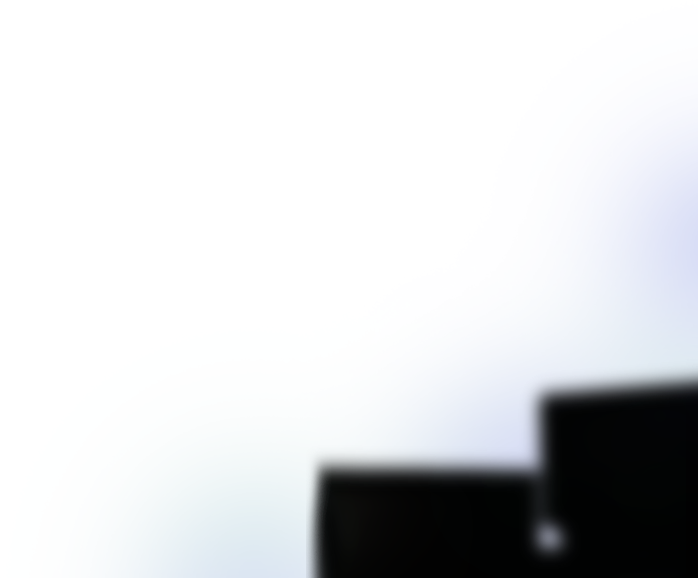
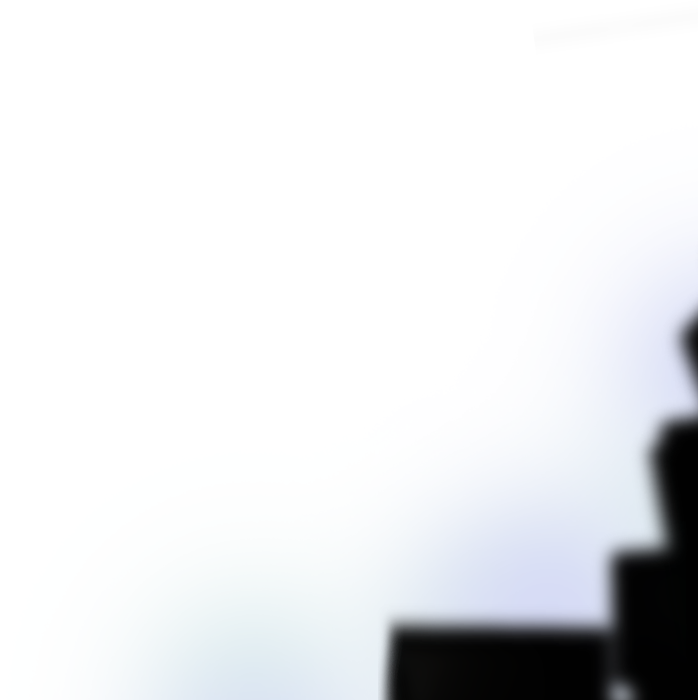
Update Boss 3 Bomb and Foreground

Changed region(s): [[0.4212, 0.436, 1.0, 1.0]]

diff --git a/Assets/Scripts/Player/PlayerDash.cs b/Assets/Scripts/Player/PlayerDash.cs
@@ -195,7 +195,7 @@ public class PlayerDash : RhythmObject
             }
             if (cos[i].tag.Equals("BossBomb"))
             {
-                Vector3 centerPos = GridManager.instance.GetPhaseInitialPosition() + new Vector2(GridManager.instance.boss.centerShootPosX * GridManager.instance.gridSize.x, GridManager.instance.boss.centerShootPosY * GridManager.instance.gridSize.y);
+                Vector3 centerPos = GridManager.instance.boss.GetCenterPosition();
                 if ((cos[i].transform.position.x - centerPos.x >= 0 && !GetComponent<PlayerGridMovement>().isPlayerFacingRight) || (cos[i].transform.position.x - centerPos.x < 0 && GetComponent<PlayerGridMovement>().isPlayerFacingRight))
                 {
                     cos[i].GetComponent<EnemyBomb>().AttackedByPlayer(centerPos, true);
@@ -288,7 +288,7 @@ public class PlayerDash : RhythmObject
         }
         if (collision.tag.Equals("BossBomb"))
         {
-            Vector3 centerPos = GridManager.instance.GetPhaseInitialPosition() + new Vector2(GridManager.instance.boss.centerShootPosX * GridManager.instance.gridSize.x, GridManager.instance.boss.centerShootPosY * GridManager.instance.gridSize.y);
+            Vector3 centerPos = GridManager.instance.boss.GetCenterPosition();
             if ((collision.transform.position.x - centerPos.x >= 0 && !GetComponent<PlayerGridMovement>().isPlayerFacingRight) || (collision.transform.position.x - centerPos.x < 0 && GetComponent<PlayerGridMovement>().isPlayerFacingRight))
             {
                 collision.GetComponent<EnemyBomb>().AttackedByPlayer(centerPos, true);
@@ -375,7 +375,7 @@ public class PlayerDash : RhythmObject
         }
         if (collision.tag.Equals("BossBomb"))
         {
-            Vector3 centerPos = GridManager.instance.GetPhaseInitialPosition() + new Vector2(GridManager.instance.boss.centerShootPosX * GridManager.instance.gridSize.x, GridManager.instance.boss.centerShootPosY * GridManager.instance.gridSize.y);
+            Vector3 centerPos = GridManager.instance.boss.GetCenterPosition();
             if ((collision.transform.position.x - centerPos.x >= 0 && !GetComponent<PlayerGridMovement>().isPlayerFacingRight) || (collision.transform.position.x - centerPos.x < 0 && GetComponent<PlayerGridMovement>().isPlayerFacingRight))
             {
                 collision.GetComponent<EnemyBomb>().AttackedByPlayer(centerPos, true);

diff --git a/Assets/Scripts/Enemies/BeatBoss.cs b/Assets/Scripts/Enemies/BeatBoss.cs
@@ -19,6 +19,7 @@ public class BeatBoss : MonoBehaviour
     public GameObject shootCenterObject;
     public int centerShootPosX;
     public int centerShootPosY;
+    public bool isUseCenterObjectPos;
 
     public int solidDamage;
     public GameObject solidPrefab;
@@ -207,6 +208,20 @@ public class BeatBoss : MonoBehaviour
         if (bossHook != null)
         {
             bossHook.Initialize();
+        }
+    }
+
+    public Vector3 GetCenterPosition()
+    {
+        if (!isUseCenterObjectPos)
+        {
+            Vector3 centerPos = GridManager.instance.GetPhaseInitialPosition() + new Vector2(centerShootPosX * GridManager.instance.gridSize.x, centerShootPosY * GridManager.instance.gridSize.y);
+            return centerPos;
+        }
+        else
+        {
+            Vector3 centerPos = shootCenterObject.transform.position;
+            return centerPos;
         }
     }
 

diff --git a/Assets/Scripts/Player/PlayerMeleeAttack.cs b/Assets/Scripts/Player/PlayerMeleeAttack.cs
@@ -265,7 +265,7 @@ public class PlayerMeleeAttack : RhythmObject
             {
                 if (!cos[i].GetComponent<EnemyBomb>().isAttacked)
                 {
-                    Vector3 centerPos = GridManager.instance.GetPhaseInitialPosition() + new Vector2(GridManager.instance.boss.centerShootPosX * GridManager.instance.gridSize.x, GridManager.instance.boss.centerShootPosY * GridManager.instance.gridSize.y);
+                    Vector3 centerPos = GridManager.instance.boss.GetCenterPosition();
                     //Debug.Log(cos[i].transform.position.x - centerPos.x);
                     if ((cos[i].transform.position.x - centerPos.x >= 0 && !GetComponent<PlayerGridMovement>().isPlayerFacingRight) || (cos[i].transform.position.x - centerPos.x < 0 && GetComponent<PlayerGridMovement>().isPlayerFacingRight))
                     {

diff --git a/Assets/Scripts/Player/PlayerBomb.cs b/Assets/Scripts/Player/PlayerBomb.cs
@@ -79,7 +79,7 @@ public class PlayerBomb : RhythmObject
             {
                 if (!cos[i].GetComponent<EnemyBomb>().isAttacked)
                 {
-                    Vector3 centerPos = GridManager.instance.GetPhaseInitialPosition() + new Vector2(GridManager.instance.boss.centerShootPosX * GridManager.instance.gridSize.x, GridManager.instance.boss.centerShootPosY * GridManager.instance.gridSize.y);
+                    Vector3 centerPos = GridManager.instance.boss.GetCenterPosition();
                     //Debug.Log(cos[i].transform.position.x - centerPos.x);
                     if ((cos[i].transform.position.x - centerPos.x >= 0 && transform.position.x - cos[i].transform.position.x >= 0) || (cos[i].transform.position.x - centerPos.x < 0 && transform.position.x - cos[i].transform.position.x <= 0))
                     {

diff --git a/Assets/Scripts/Player/PlayerGridBullet.cs b/Assets/Scripts/Player/PlayerGridBullet.cs
@@ -169,7 +169,7 @@ public class PlayerGridBullet : RhythmObject
         }
         if (collision.tag.Equals("BossBomb"))
         {
-            Vector3 centerPos = GridManager.instance.GetPhaseInitialPosition() + new Vector2(GridManager.instance.boss.centerShootPosX * GridManager.instance.gridSize.x, GridManager.instance.boss.centerShootPosY * GridManager.instance.gridSize.y);
+            Vector3 centerPos = GridManager.instance.boss.GetCenterPosition();
             if ((collision.transform.position.x - centerPos.x >= 0 && xDirection <= 0) || (collision.transform.position.x - centerPos.x < 0 && xDirection >= 0))
             {
                 collision.GetComponent<EnemyBomb>().AttackedByPlayer(centerPos, true);
